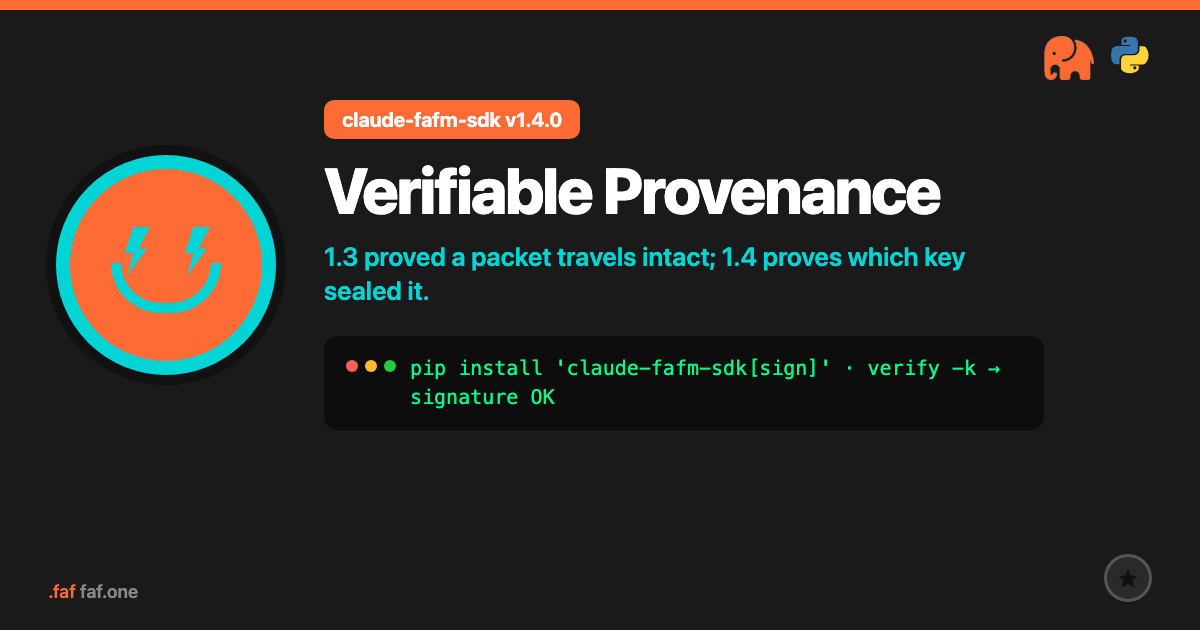
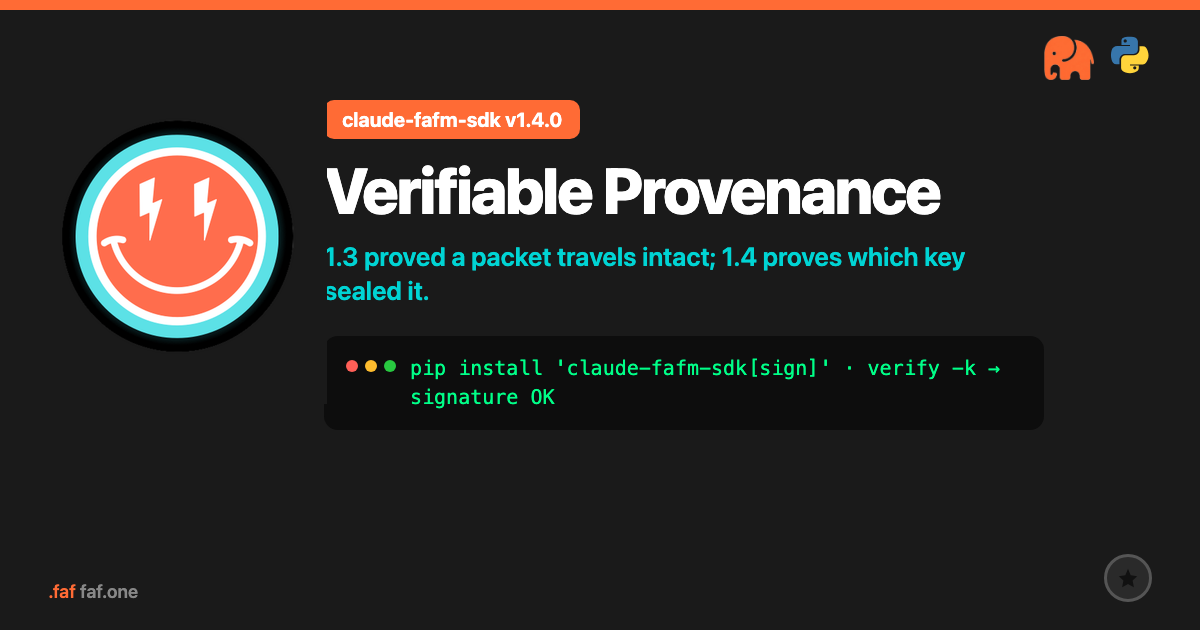
fix(blog): VP hero uses real DotFaf mark (no drifted smiley)
Fourth FAFM ladder card had a lookalike face; recompose from archive
with Fam-Marks/dotfaf.png. Bump OG cache to ?v=3. Archive the fake.

Changed region(s): [[0.0308, 0.181, 0.2467, 0.6032]]

diff --git a/src/routes/blog/verifiable-provenance/+page.svelte b/src/routes/blog/verifiable-provenance/+page.svelte
@@ -34,11 +34,11 @@ Optional Ed25519. Not a PKI. Receipt still zero-crypto.`;
 	<meta property="og:site_name" content=".faf Format Authority" />
 	<meta
 		property="og:image"
-		content="https://faf.one/blog-assets/verifiable-provenance-hero.png?v=2"
+		content="https://faf.one/blog-assets/verifiable-provenance-hero.png?v=3"
 	/>
 	<meta
 		property="og:image:secure_url"
-		content="https://faf.one/blog-assets/verifiable-provenance-hero.png?v=2"
+		content="https://faf.one/blog-assets/verifiable-provenance-hero.png?v=3"
 	/>
 	<meta property="og:image:type" content="image/png" />
 	<meta property="og:image:width" content="1200" />
@@ -57,7 +57,7 @@ Optional Ed25519. Not a PKI. Receipt still zero-crypto.`;
 	/>
 	<meta
 		name="twitter:image"
-		content="https://faf.one/blog-assets/verifiable-provenance-hero.png?v=2"
+		content="https://faf.one/blog-assets/verifiable-provenance-hero.png?v=3"
 	/>
 	<meta
 		name="twitter:image:alt"
@@ -85,7 +85,7 @@ Optional Ed25519. Not a PKI. Receipt still zero-crypto.`;
 
 	<div class="hero-image">
 		<img
-			src="https://faf.one/blog-assets/verifiable-provenance-hero.png?v=2"
+			src="https://faf.one/blog-assets/verifiable-provenance-hero.png?v=3"
 			alt="Verifiable Provenance — claude-fafm-sdk v1.4.0 hero card"
 			width="1200"
 			height="630"
